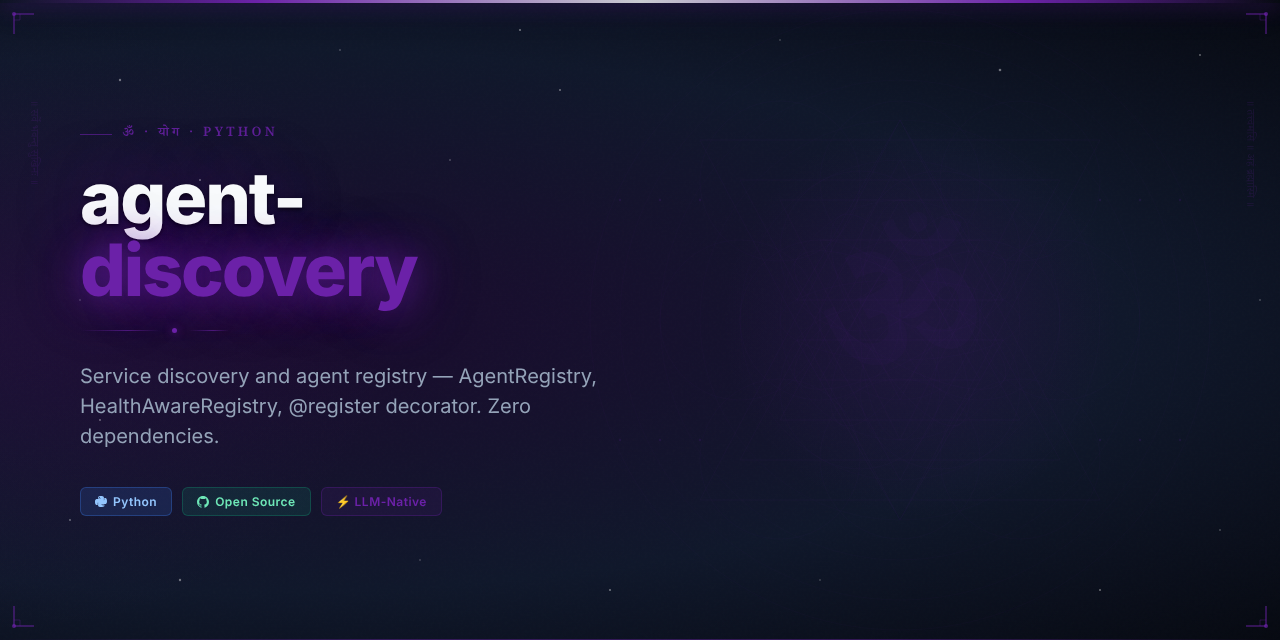
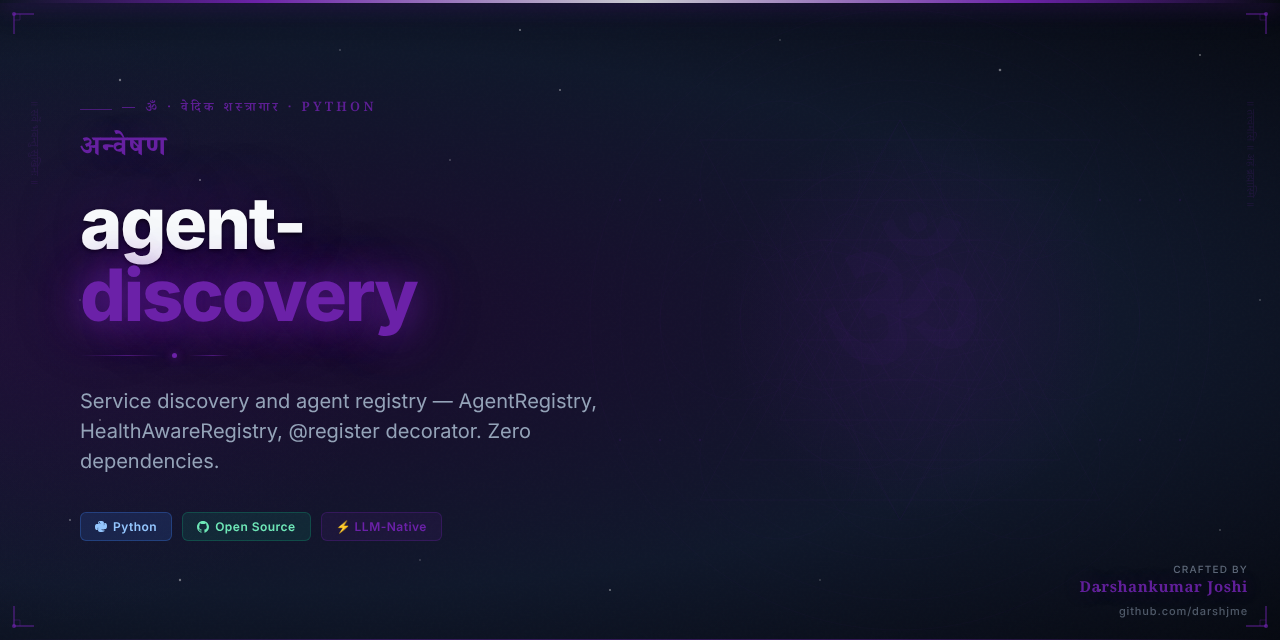
feat: add Vedic Arsenal hero image and updated README
Part of darshjme/arsenal — 100 production-grade Python libraries for LLM agents.
Vedic branding: ancient philosophy meets modern AI engineering.

diff --git a/README.md b/README.md
@@ -1,10 +1,12 @@
 <div align="center">
 
-<img src="assets/agent-discovery-hero.png" alt="agent-discovery — Vedic Arsenal" width="100%" />
+<img src="assets/agent-discovery-hero.png" alt="agent-discovery — Vedic Arsenal by Darshankumar Joshi" width="100%" />
 
 # 🔮 agent-discovery
 
-### *अन्वेषण* — Anveshana — the sacred search, divine discovery
+<h3><em>अन्वेषण</em></h3>
+
+> *Anveshana — the sacred search, divine discovery*
 
 **Service discovery and agent registry — AgentRegistry, HealthAwareRegistry, @register decorator. Zero dependencies.**
 
@@ -39,6 +41,19 @@ Or clone directly:
 git clone https://github.com/darshjme/agent-discovery.git
 cd agent-discovery
 pip install -e .
+```
+
+## How It Works
+
+```mermaid
+flowchart LR
+    A[Input] --> B[agent-discovery]
+    B --> C{Process}
+    C -- Success --> D[Output]
+    C -- Error --> E[Handle / Retry]
+    E --> B
+    style B fill:#6b21a8,color:#fff
+    note["Discovery — Zero Dependencies"]
 ```
 
 ## Quick Start
@@ -90,7 +105,7 @@ MIT — use freely, build freely.
 
 <div align="center">
 
-**Built with 🔮 by [Darshankumar Joshi](https://github.com/darshjme)**
+**Built with 🔮 by [Darshankumar Joshi](https://github.com/darshjme)** · [@thedarshanjoshi](https://twitter.com/thedarshanjoshi)
 
 *"कर्मण्येवाधिकारस्ते मा फलेषु कदाचन"*
 *Your right is to action alone, never to the fruits thereof.*
